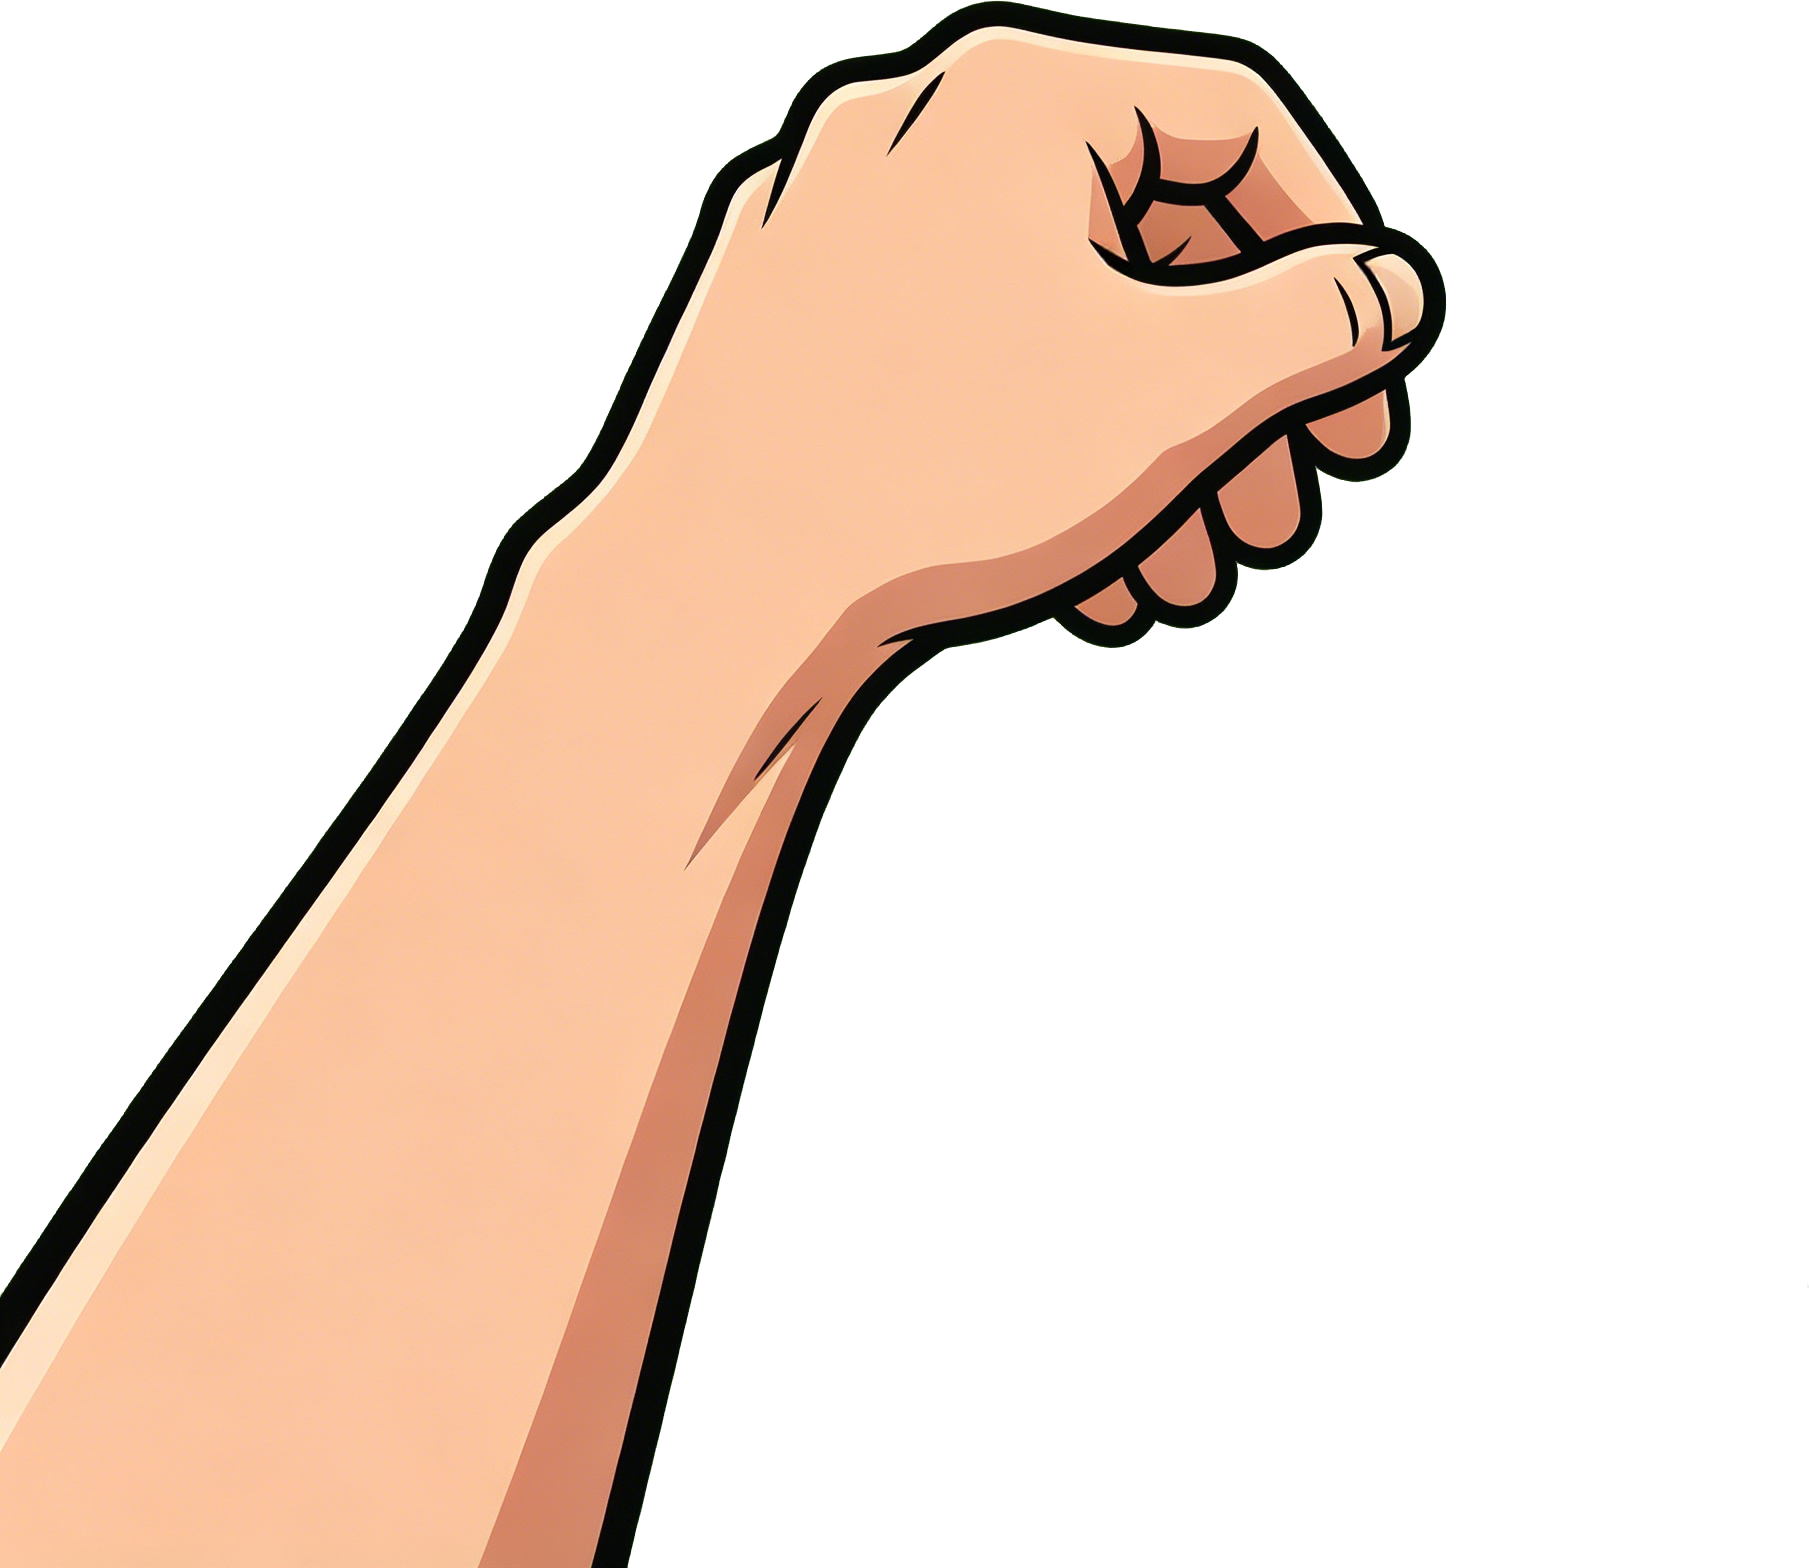
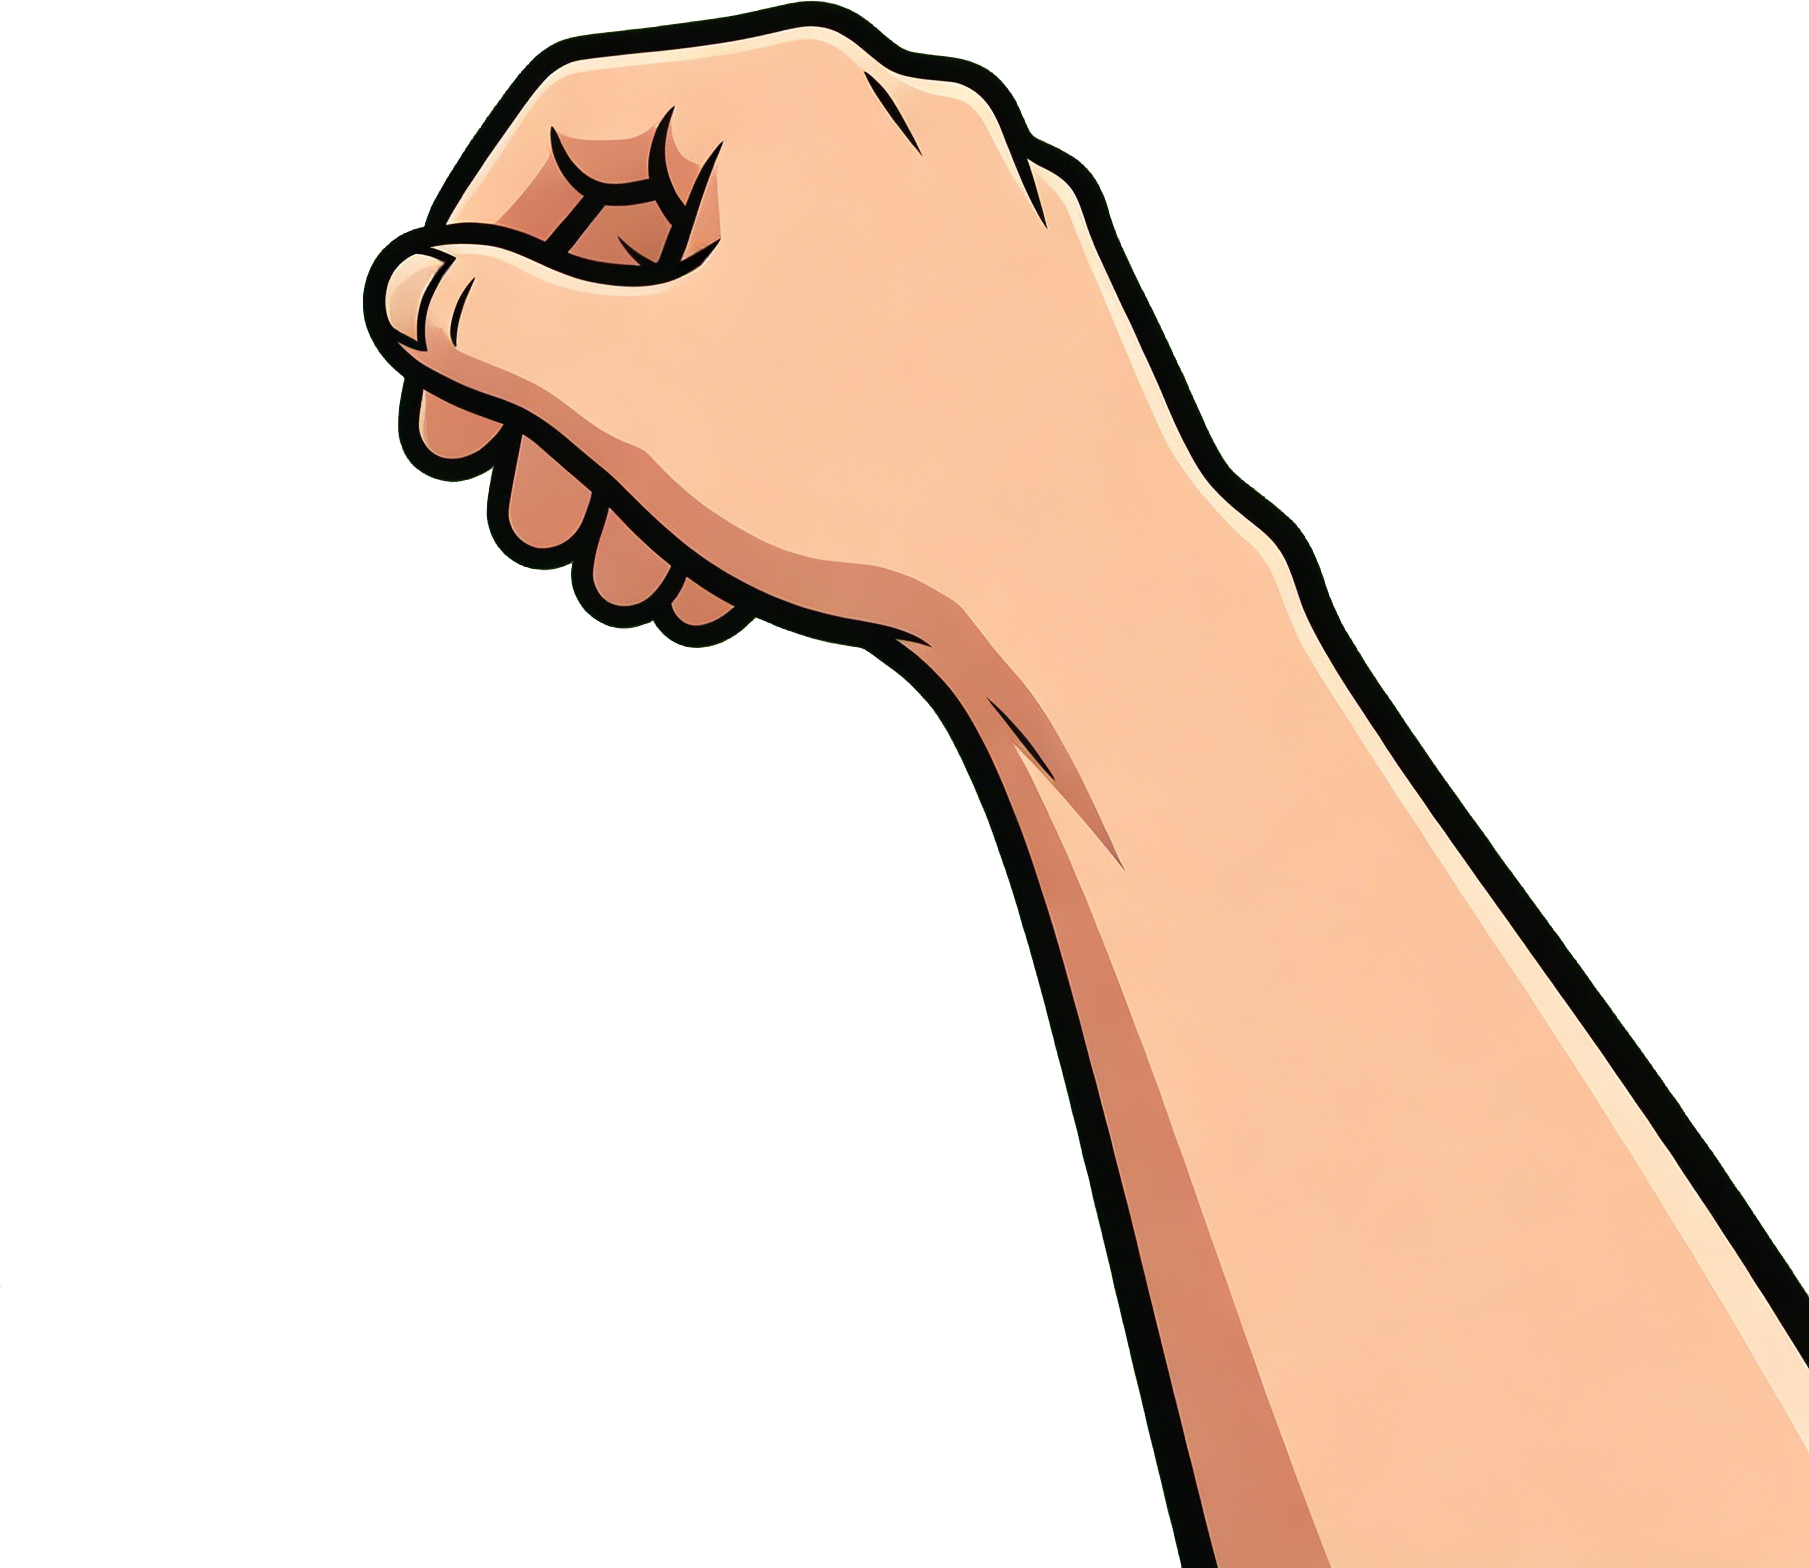
v0.43: 烟民逃跑1.9->2.6(可读) + 挂浆奶茶色(不像阴影) + 投掷手左右翻转修正 + 声音开关挪右上角(防误触,开声叮确认)

diff --git a/smoke-em-out/en/index.html b/smoke-em-out/en/index.html
@@ -841,7 +841,7 @@ function impact(target, cx, cy, chained, side) {
   target.extinguished = true;
   target.flashUntil = now + 90;
   target.soakedAt = now;                 // 驱动挂浆下滴
-  target.speed = target.baseSpeed * 1.9; // soaked → scurries off, embarrassed
+  target.speed = target.baseSpeed * 2.6; // v0.43: 1.9→2.6 — 1.9× 在满屏快行人里读不出仓皇感 (玩家: 没逃)
 
   // v0.15: 香烟被打飞 — 从嘴叼处旋转飞出 + 掉地 (替代"凭空消失"的生硬感)
   state.flyingCigs.push({
@@ -1328,7 +1328,7 @@ function drawPerson(p) {
     } else if (p.extinguished) {
       // 奶茶挂浆 — source-atop 只染在 sprite 像素内
       ctx.globalCompositeOperation = 'source-atop';
-      ctx.fillStyle = 'rgba(140,90,50,0.45)';
+      ctx.fillStyle = 'rgba(208,162,108,0.55)'; // v0.43: 深褐(像阴影)→奶茶色
       ctx.beginPath();
       ctx.arc(-s * 0.08, -s * 0.16, s * 0.2, 0, Math.PI * 2);
       ctx.arc(s * 0.1, -s * 0.04, s * 0.16, 0, Math.PI * 2);
@@ -1361,7 +1361,7 @@ function drawPerson(p) {
     ctx.fillText(face, faceFlip * 2, -bh / 2 + 10);
     // 奶茶挂浆 — 头肩一大块 + 两条往下流的痕 + 粘住的珍珠
     if (p.extinguished) {
-      ctx.fillStyle = 'rgba(140,90,50,0.55)';
+      ctx.fillStyle = 'rgba(208,162,108,0.6)';
       ctx.beginPath();
       ctx.arc(-4, -bh / 2 + 16, 12, 0, Math.PI * 2);
       ctx.arc(7, -bh / 2 + 24, 9, 0, Math.PI * 2);
@@ -1568,17 +1568,18 @@ function drawStartScreen() {
   // v0.13 提示: 横竖屏 (v0.30: iPhone 静音键提示移除 — 不是人人用 iPhone, 换成显眼的声音开关)
   ctx.fillStyle = '#7ad0ff';
   fitFillText(EN ? '🔄 Plays in portrait or landscape — best with sound on 🎧' : '🔄 横屏 / 竖屏都能玩　·　🎧 戴耳机 / 开音效更带感', CX, 142, 13, W - 16, true);
-  // v0.30 声音开关 (默认开, 点击切换); v0.31 上移并收窄, 不再压到"时长"标签
+  // v0.30 声音开关; v0.43: 从屏幕正中(玩家点屏开始的落点!)挪到右上角 — 误触关声还被 localStorage 记住,
+  //        是"突然没声音"的头号嫌疑。关闭态整钮变红更醒目。
   {
-    const sw = 150, sh = 24, sx = CX - sw / 2, sy = 152;
-    ctx.fillStyle = settings.sound ? '#2a4a3e' : '#3a2a2a';
+    const sw = 118, sh = 24, sx = W - sw - 10, sy = 10;
+    ctx.fillStyle = settings.sound ? '#2a4a3e' : '#5a2a2a';
     ctx.beginPath();
     if (ctx.roundRect) ctx.roundRect(sx, sy, sw, sh, 12); else ctx.rect(sx, sy, sw, sh);
     ctx.fill();
-    ctx.strokeStyle = settings.sound ? '#5a9a7a' : '#7a5a5a'; ctx.lineWidth = 1; ctx.stroke();
-    ctx.font = 'bold 13px sans-serif';
-    ctx.fillStyle = settings.sound ? '#8ee0b0' : '#d0a0a0';
-    ctx.fillText(settings.sound ? (EN ? '🔊 Sound: ON' : '🔊 声音：开') : (EN ? '🔇 Sound: OFF' : '🔇 声音：关'), CX, sy + sh / 2 + 1);
+    ctx.strokeStyle = settings.sound ? '#5a9a7a' : '#c06a6a'; ctx.lineWidth = settings.sound ? 1 : 2; ctx.stroke();
+    ctx.font = 'bold 12px sans-serif';
+    ctx.fillStyle = settings.sound ? '#8ee0b0' : '#ffb0b0';
+    ctx.fillText(settings.sound ? (EN ? '🔊 Sound ON' : '🔊 声音开') : (EN ? '🔇 Sound OFF' : '🔇 声音关'), sx + sw / 2, sy + sh / 2 + 1);
     startOpts.push({ x: sx, y: sy + dy, w: sw, h: sh, type: 'sound', idx: 0 });
   }
   // v0.13 三排设置 — 一进来就能选; v0.31 整体下移避开声音开关
@@ -2007,7 +2008,7 @@ function handlePointer(clientX, clientY) {
       if (x >= o.x && x <= o.x + o.w && y >= o.y && y <= o.y + o.h) {
         if (o.type === 'dur') settings.dur = DURS[o.idx];
         else if (o.type === 'aim') settings.aim = o.idx;
-        else if (o.type === 'sound') settings.sound = settings.sound ? 0 : 1; // v0.30 开关切换
+        else if (o.type === 'sound') { settings.sound = settings.sound ? 0 : 1; if (settings.sound) { initAudio(); playStartDing(); } } // v0.43 开声立刻"叮"确认
         else settings.speed = o.idx;
         saveSettings();
         return;

diff --git a/smoke-em-out/index.html b/smoke-em-out/index.html
@@ -841,7 +841,7 @@ function impact(target, cx, cy, chained, side) {
   target.extinguished = true;
   target.flashUntil = now + 90;
   target.soakedAt = now;                 // 驱动挂浆下滴
-  target.speed = target.baseSpeed * 1.9; // soaked → scurries off, embarrassed
+  target.speed = target.baseSpeed * 2.6; // v0.43: 1.9→2.6 — 1.9× 在满屏快行人里读不出仓皇感 (玩家: 没逃)
 
   // v0.15: 香烟被打飞 — 从嘴叼处旋转飞出 + 掉地 (替代"凭空消失"的生硬感)
   state.flyingCigs.push({
@@ -1328,7 +1328,7 @@ function drawPerson(p) {
     } else if (p.extinguished) {
       // 奶茶挂浆 — source-atop 只染在 sprite 像素内
       ctx.globalCompositeOperation = 'source-atop';
-      ctx.fillStyle = 'rgba(140,90,50,0.45)';
+      ctx.fillStyle = 'rgba(208,162,108,0.55)'; // v0.43: 深褐(像阴影)→奶茶色
       ctx.beginPath();
       ctx.arc(-s * 0.08, -s * 0.16, s * 0.2, 0, Math.PI * 2);
       ctx.arc(s * 0.1, -s * 0.04, s * 0.16, 0, Math.PI * 2);
@@ -1361,7 +1361,7 @@ function drawPerson(p) {
     ctx.fillText(face, faceFlip * 2, -bh / 2 + 10);
     // 奶茶挂浆 — 头肩一大块 + 两条往下流的痕 + 粘住的珍珠
     if (p.extinguished) {
-      ctx.fillStyle = 'rgba(140,90,50,0.55)';
+      ctx.fillStyle = 'rgba(208,162,108,0.6)';
       ctx.beginPath();
       ctx.arc(-4, -bh / 2 + 16, 12, 0, Math.PI * 2);
       ctx.arc(7, -bh / 2 + 24, 9, 0, Math.PI * 2);
@@ -1568,17 +1568,18 @@ function drawStartScreen() {
   // v0.13 提示: 横竖屏 (v0.30: iPhone 静音键提示移除 — 不是人人用 iPhone, 换成显眼的声音开关)
   ctx.fillStyle = '#7ad0ff';
   fitFillText(EN ? '🔄 Plays in portrait or landscape — best with sound on 🎧' : '🔄 横屏 / 竖屏都能玩　·　🎧 戴耳机 / 开音效更带感', CX, 142, 13, W - 16, true);
-  // v0.30 声音开关 (默认开, 点击切换); v0.31 上移并收窄, 不再压到"时长"标签
+  // v0.30 声音开关; v0.43: 从屏幕正中(玩家点屏开始的落点!)挪到右上角 — 误触关声还被 localStorage 记住,
+  //        是"突然没声音"的头号嫌疑。关闭态整钮变红更醒目。
   {
-    const sw = 150, sh = 24, sx = CX - sw / 2, sy = 152;
-    ctx.fillStyle = settings.sound ? '#2a4a3e' : '#3a2a2a';
+    const sw = 118, sh = 24, sx = W - sw - 10, sy = 10;
+    ctx.fillStyle = settings.sound ? '#2a4a3e' : '#5a2a2a';
     ctx.beginPath();
     if (ctx.roundRect) ctx.roundRect(sx, sy, sw, sh, 12); else ctx.rect(sx, sy, sw, sh);
     ctx.fill();
-    ctx.strokeStyle = settings.sound ? '#5a9a7a' : '#7a5a5a'; ctx.lineWidth = 1; ctx.stroke();
-    ctx.font = 'bold 13px sans-serif';
-    ctx.fillStyle = settings.sound ? '#8ee0b0' : '#d0a0a0';
-    ctx.fillText(settings.sound ? (EN ? '🔊 Sound: ON' : '🔊 声音：开') : (EN ? '🔇 Sound: OFF' : '🔇 声音：关'), CX, sy + sh / 2 + 1);
+    ctx.strokeStyle = settings.sound ? '#5a9a7a' : '#c06a6a'; ctx.lineWidth = settings.sound ? 1 : 2; ctx.stroke();
+    ctx.font = 'bold 12px sans-serif';
+    ctx.fillStyle = settings.sound ? '#8ee0b0' : '#ffb0b0';
+    ctx.fillText(settings.sound ? (EN ? '🔊 Sound ON' : '🔊 声音开') : (EN ? '🔇 Sound OFF' : '🔇 声音关'), sx + sw / 2, sy + sh / 2 + 1);
     startOpts.push({ x: sx, y: sy + dy, w: sw, h: sh, type: 'sound', idx: 0 });
   }
   // v0.13 三排设置 — 一进来就能选; v0.31 整体下移避开声音开关
@@ -2007,7 +2008,7 @@ function handlePointer(clientX, clientY) {
       if (x >= o.x && x <= o.x + o.w && y >= o.y && y <= o.y + o.h) {
         if (o.type === 'dur') settings.dur = DURS[o.idx];
         else if (o.type === 'aim') settings.aim = o.idx;
-        else if (o.type === 'sound') settings.sound = settings.sound ? 0 : 1; // v0.30 开关切换
+        else if (o.type === 'sound') { settings.sound = settings.sound ? 0 : 1; if (settings.sound) { initAudio(); playStartDing(); } } // v0.43 开声立刻"叮"确认
         else settings.speed = o.idx;
         saveSettings();
         return;